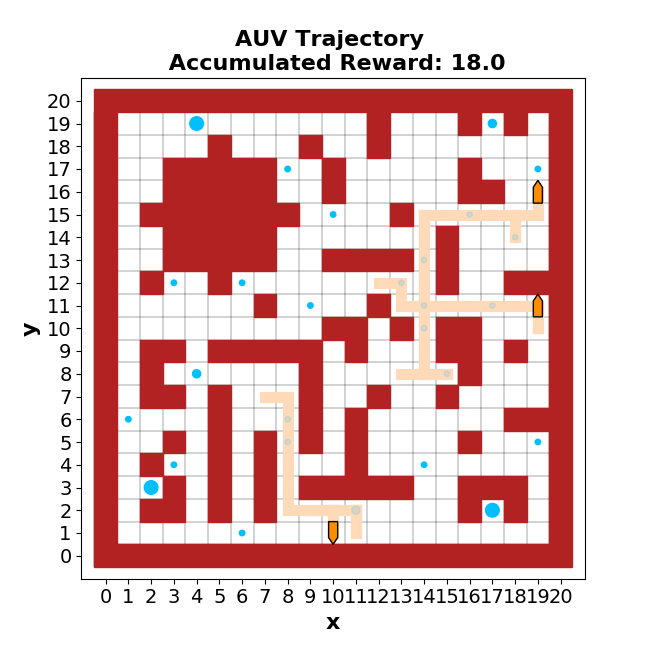
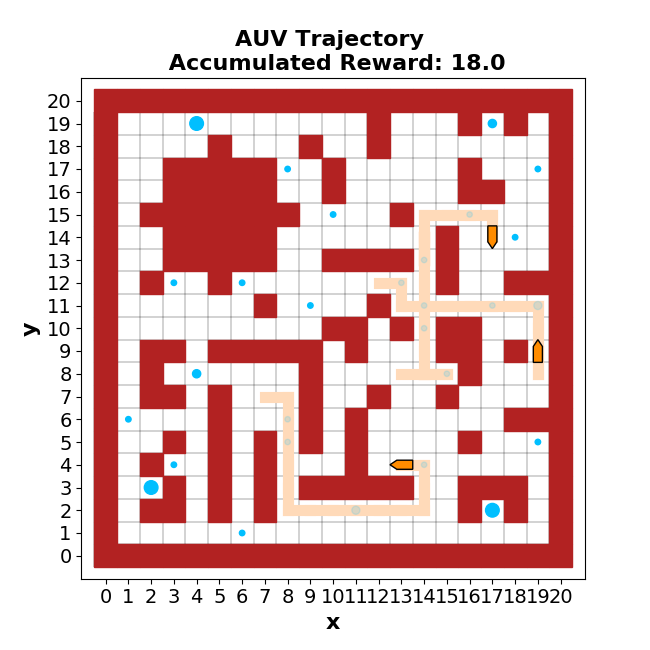
Changed the max reward selection and simulation results of gomoku

diff --git a/src/mcts.py b/src/mcts.py
@@ -1,6 +1,6 @@
 import math
 import random
-from src.state import AbstractState as State, AbstractAction as Action
+from state import AbstractState as State, AbstractAction as Action
 
 
 class Node(object):
@@ -184,8 +184,11 @@ class MonteCarloSearchTree:
     def _search(self, node: Node, search_depth: int = 1) -> (float, list):
         """ Recursively search for a best sequence of actions
         """
-        if node.is_terminal or search_depth == 0:
+        if not node.children or search_depth == 0:
             return node.tot_reward / node.num_samples, []
+        elif search_depth == 1:
+            action, child = select(node, exploration_const=0.0)
+            return child.tot_reward / child.num_samples, [action]
         best_reward = -math.inf
         best_act_seq = []
         for action, child in node.children.items():
@@ -203,6 +206,16 @@ class MonteCarloSearchTree:
         """
         for _ in range(self._max_samples):
             execute_round(self._root, max_tree_depth=self._max_tree_depth)
+        # actions = []
+        # cur_node = self._root
+        # for _ in range(search_depth):
+        #     if cur_node.is_terminal:
+        #         break
+        #     else:
+        #         action, child = select(cur_node, exploration_const=0.0)
+        #         cur_node = child
+        #         actions.append(action)
+        # return actions
         return self._search(self._root, search_depth)[1]
 
     def update_root(self, action: Action) -> "MonteCarloSearchTree":
